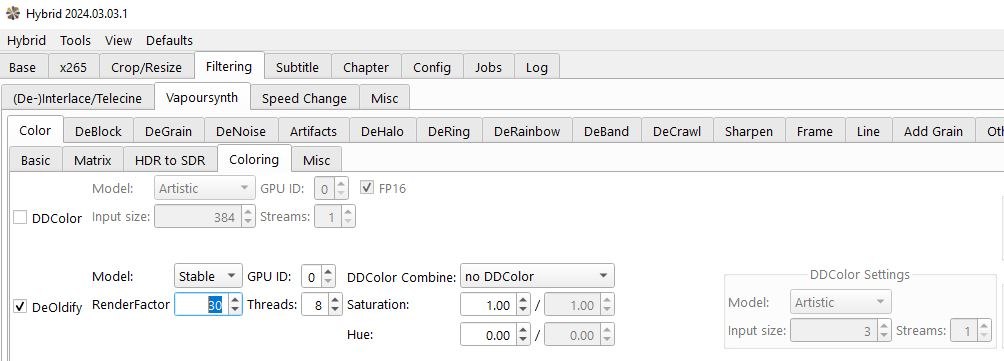
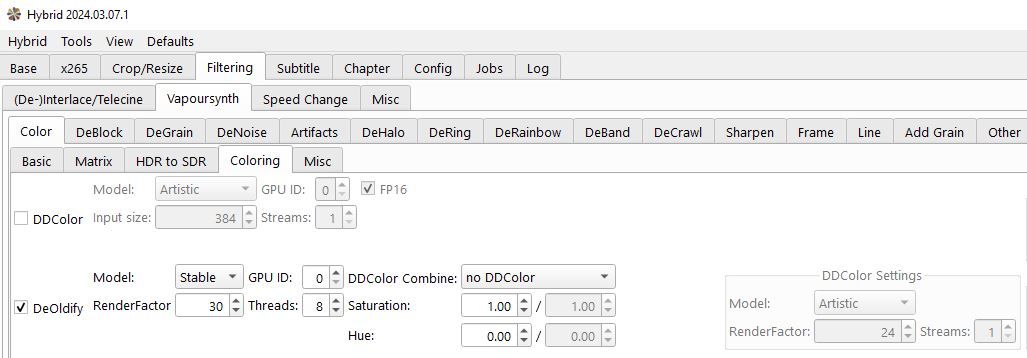
Update README and hybrid setup images, toreflect the change of input_size in render_factor

diff --git a/README.md b/README.md
@@ -56,7 +56,11 @@ clip = ddeoldify(clip, dd_weight=0.0)
 
 See `__init__.py` for the description of the parameters.
 
-**NOTE**: In the _DDColor_ version included with **DDeoldify** the parameter _input_size_ has changed name in _dd_strength_ because I changed the range of values of this parameter to be equivalent to _render_factor_ in _Deoldify_. 
+**NOTE**: In the _DDColor_ version included with **DDeoldify** the parameter _input_size_ has changed name in _dd_strength_ because I changed the range of values of this parameter to be equivalent to _render_factor_ in _Deoldify_, the relationship between these 2 parameters is the following:
+
+```
+input_size = render_factor * 16
+``` 
 
 ---
 
@@ -66,7 +70,7 @@ Taking inspiration from the article published on Habr: [Mode on: Comparing the t
 
 The added models are:
 
-**D+D**: Deoldify (with model _Video_ & render_factor = 23) + DDColor (with model _Artistic_ and input_size = 3)
+**D+D**: Deoldify (with model _Video_ & render_factor = 23) + DDColor (with model _Artistic_ and render_factor = 24)
 ![Hybrid D+D](https://github.com/dan64/vs-deoldify/blob/main/hybrid_setup/Model_D%2BD.JPG)  
 
 **DD**:  DDColor (with model _Artistic_ and input_size = 384)
@@ -116,7 +120,7 @@ To compare the models I decided to use a metric being able to consider the _perc
    
 The calculation of **dE** with the  **CIEDE2000** method was obtained by leveraging on the computational code available in [ColorMine](https://github.com/MasterPieceCode/Mozaic/tree/master/ColorMine).
 
-As it is possible to see the model that performed better is the **D+D** model (which I called _DDelodify_ because is using both _Deoldify_ and _DDColor_). This model was the best model in 10 tests out of 23. Also the **DD** model performed well but there were situations where the **DD** model provided quite bad colorized images like in [Test #23](https://github.com/dan64/vs-deoldify/blob/main/test_images/Image_23_test.jpg) and the combination with the Deoldify allowed to significantly improve the final image. In effect the average distance of **DD** was 8.3 while for **DV** was 9.5, given that the 2 models were weighted at 50%, if the images were positively correlated a value 9 would have been expected, instead the average distance measured for **D+D** was 8.3, this implies that the 2 models were able to compensate each other. 
+As it is possible to see the model that performed better is the **D+D** model (which I called _DDelodify_ because is using both _Deoldify_ and _DDColor_). This model was the best model in 10 tests out of 23. Also the **DD** model performed well but there were situations where the **DD** model provided quite bad colorized images like in [Test #23](https://github.com/dan64/vs-deoldify/blob/main/test_images/Image_23_test.jpg) and the combination with the Deoldify allowed to significantly improve the final image. In effect the average distance of **DD** was 8.3 while for **DV** was 9.5, given that the 2 models were weighted at 50%, if the images were positively correlated a value 9.0 would have been expected, instead the average distance measured for **D+D** was 8.3, this implies that the 2 models were able to compensate each other. 
 Conversely, the **T241** was the model that performed worse with the greatest average difference in colors. Finally, the quality of Deoldify models was similar, being **DS** slightly better than **DV** (as expected).
 
 ###  Tests Set #2 ### 
@@ -129,11 +133,11 @@ The models added are:
 
 **DDs**: DDColor (with model _ModelScope_ and input_size = 384)
 
-**DS+DD**: Deoldify (with model _Stable_ & render_factor = 30) + DDColor (with model _Artistic_ and input_size = 3)
+**DS+DD**: Deoldify (with model _Stable_ & render_factor = 30) + DDColor (with model _Artistic_ and render_factor  = 24)
 
-**DA+DDs**: Deoldify (with model _Artistic_ & render_factor = 30) + DDColor (with model _ModelScope_ and input_size = 3)
+**DA+DDs**: Deoldify (with model _Artistic_ & render_factor = 30) + DDColor (with model _ModelScope_ and render_factor  = 24)
 
-**DA+DD**: Deoldify (with model _Artistic_ & render_factor = 30) + DDColor (with model _Artistic_ and input_size = 3)
+**DA+DD**: Deoldify (with model _Artistic_ & render_factor = 30) + DDColor (with model _Artistic_ and render_factor  = 24)
 
 The results of this additional tests set are shown in the table below (test image can be seen by clicking on the test number)
 
@@ -170,11 +174,11 @@ First of all, it should be noted that the individual models added (**DA** for _D
 
 In Summary **DDeoldify** is able to provide often a final colorized image that is better than the image obtained from the individual models, and can be considered an improvement respect to the current Models.  The suggested configuration for _video encoding_ is: 
 
-* **D+D**: Deoldify (with model _Video_ & render_factor = 24) + DDColor (with model _Artistic_ and dd_strength = 24)
+* **D+D**: Deoldify (with model _Video_ & render_factor = 24) + DDColor (with model _Artistic_ and render_factor = 24)
 
 willing to accept a decrease in encoding speed of about 40% it is possible to improve _a little_ the colorization process by using the configuration:
 
-* **DS+DD**: Deoldify (with model _Stable_ & render_factor = 30) + DDColor (with model _Artistic_ and dd_strength = 30)
+* **DS+DD**: Deoldify (with model _Stable_ & render_factor = 30) + DDColor (with model _Artistic_ and render_factor = 30)
 
 As a final consideration I would like to point out that the test results showed that the images coloring technology is mature enough to be used concretely both for coloring images and, thanks to **Hybrid**, videos.
 
